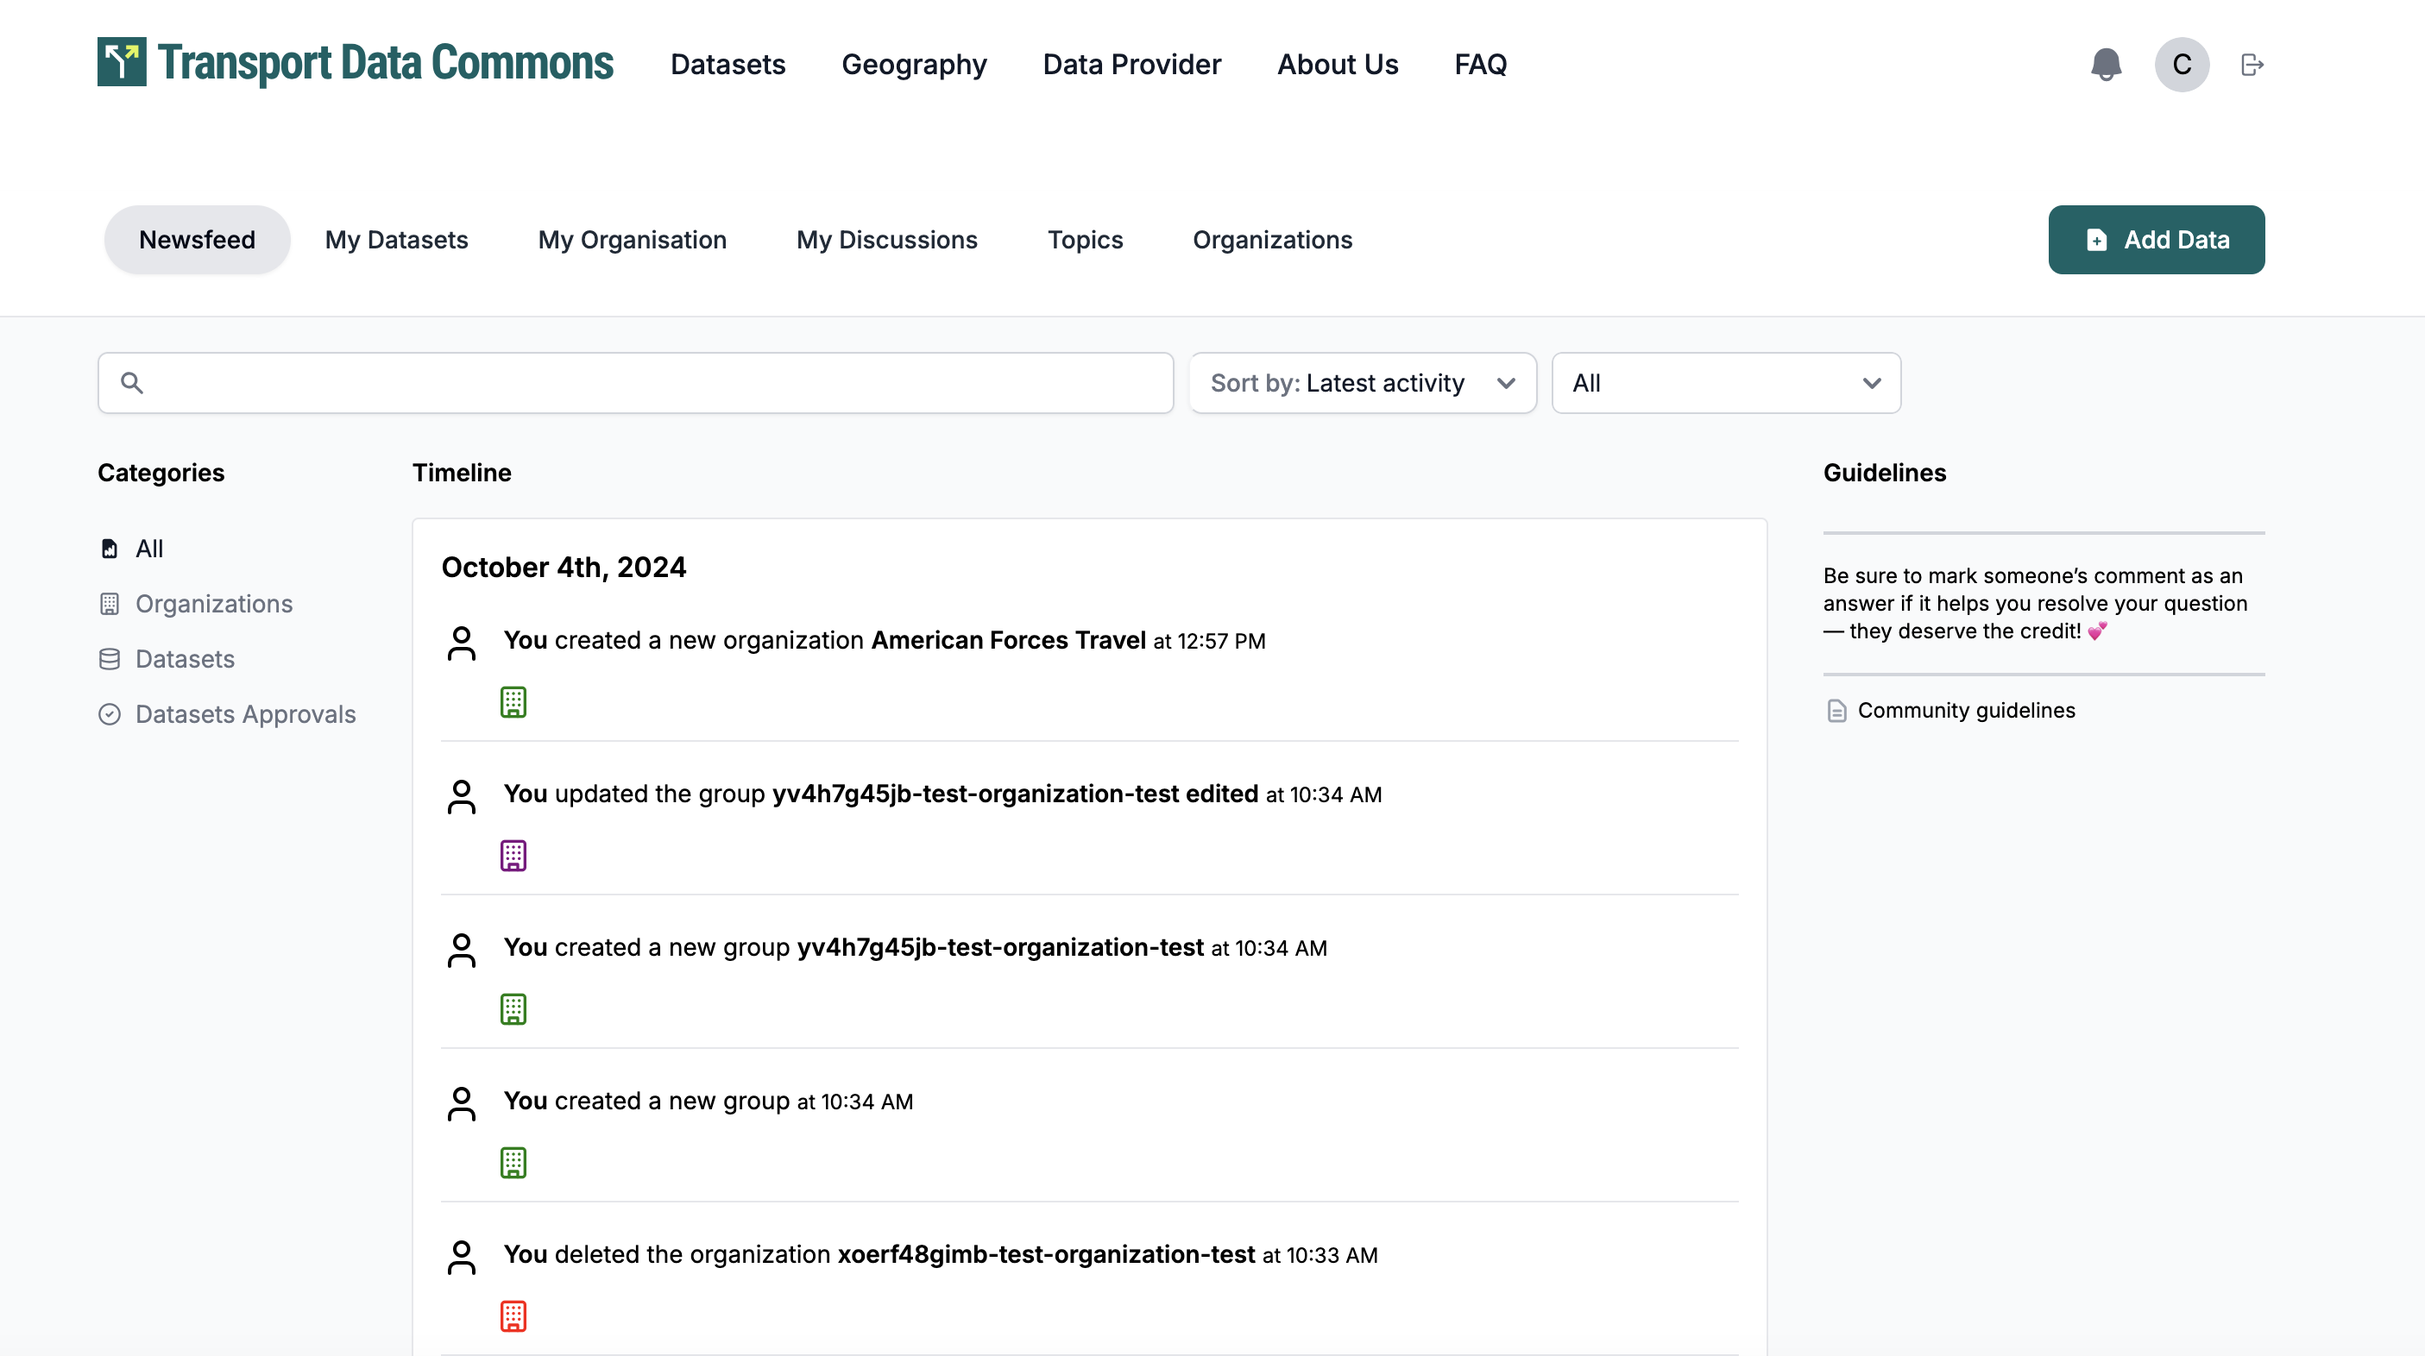
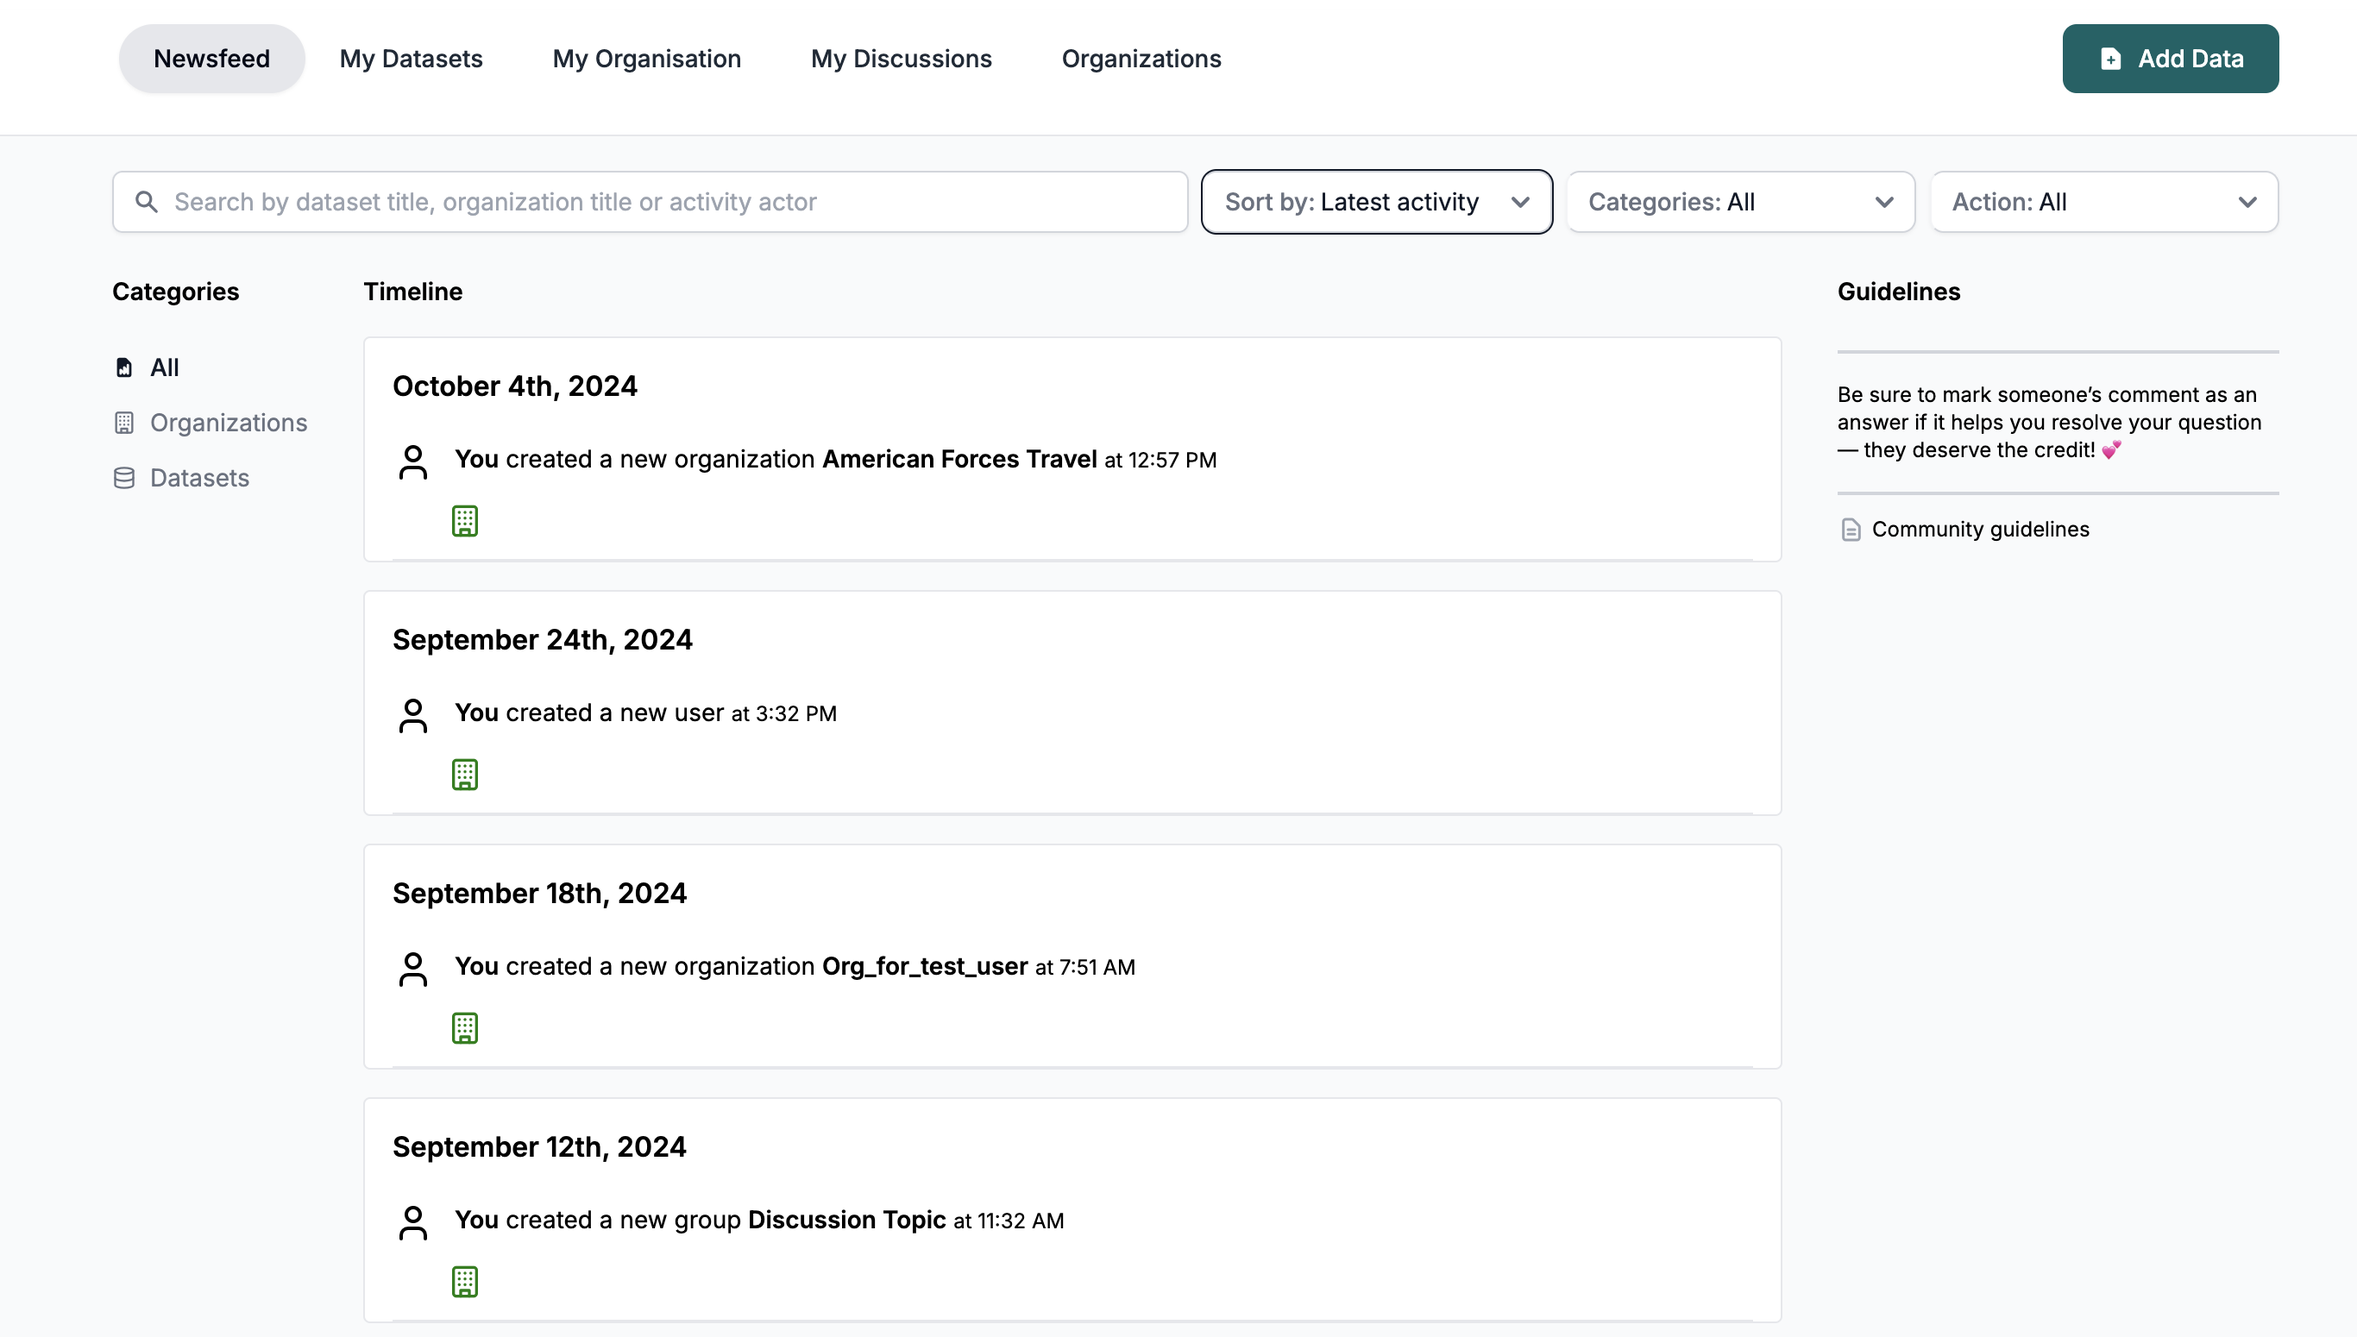
added action filter and updated docs

diff --git a/frontend/src/components/dashboard/NewsFeedTabContent.tsx b/frontend/src/components/dashboard/NewsFeedTabContent.tsx
@@ -1,5 +1,5 @@
 import Guidelines from "@components/_shared/Guidelines";
-import SimpleSearchInput from "@components/ui/simple-search-input";
+import NewsFeedSearchFilters from "@components/search/NewsfeedSearchFilters";
 import { SelectableItemsList } from "@components/ui/selectable-items-list";
 import { api } from "@utils/api";
 import { useState, useMemo, useEffect } from "react";
@@ -12,14 +12,15 @@ import {
   PaginationPrevious,
 } from "@components/ui/pagination";
 import MiniSearch from "minisearch";
-import { Building, Database, CircleCheck } from "lucide-react";
+import { Building, Database } from "lucide-react";
 import { DocumentReportIcon } from "@lib/icons";
 import DashboardNewsFeedCard from "./DashboardNewsFeedCard";
 import { format } from "date-fns";
 import { DashboardNewsfeedCardProps } from "./DashboardNewsFeedCard";
+import { Activity } from "@portaljs/ckan";
 
-const groupByDate = (activities: any) => {
-  return activities.reduce((groups: any, activity: any) => {
+const groupByDate = (activities: Activity[]) => {
+  return activities.reduce((groups: any, activity: Activity) => {
     if (activity?.timestamp) {
       const formattedDate = format(
         new Date(activity?.timestamp),
@@ -42,40 +43,28 @@ export interface NewsFeedCardProps {
   activity_type: string;
 }
 export default () => {
-  const filterOptions = [
+  const categoryFilterOptions = [
     "All",
     "Organizations",
     "Datasets",
-    /*"Datasets Approvals"*/,
+    /*"Datasets Approvals"*/
   ];
+  const actionsFilterOptions = ["All", "created", "deleted", "updated"];
   const [searchText, setSearchText] = useState("");
-  const [filter, setFilter] = useState("All");
+  const [categoryFilter, setCategoryFilter] = useState("All");
+  const [actionsFilter, setActionsFilter] = useState("All");
   const [sortOrder, setSortOrder] = useState("latest");
   const [currentPage, setCurrentPage] = useState(1);
   const itemsPerPage = 10;
 
   useEffect(() => {
     setCurrentPage(1);
-  }, [filter, searchText]);
+  }, [categoryFilter, actionsFilter, searchText]);
 
   const { data: activities, isLoading } =
     api.user.listDashboardActivities.useQuery();
 
   const preprocessedActivities = activities?.map((activity: any) => {
-    const activitySegments = activity.activity_type?.split(" ");
-    const activityType = activitySegments ? activitySegments[0] : "changed";
-    const activityTarget = activitySegments
-      ? activitySegments[1] === "package"
-        ? "dataset"
-        : activitySegments[1]
-      : "entity";
-
-    // Add synonyms for activity type and target
-    const mappedActivityType =
-      activityType === "changed" ? "updated" : activityType;
-    const mappedActivityTarget =
-      activityTarget === "dataset" ? "package" : activityTarget;
-
     return {
       ...activity,
       "data.group.title": activity.data?.group?.title || "",
@@ -83,14 +72,12 @@ export default () => {
       "data.package.name": activity.data?.package?.name || "",
       "data.package.title": activity.data?.package?.title || "",
       "data.actor": activity.data?.actor || "",
-      activity_type_synonym: `${activityType} ${activityTarget} ${mappedActivityType} ${mappedActivityTarget}`,
     };
   });
 
   const miniSearch = useMemo(() => {
     const search = new MiniSearch({
       fields: [
-        "activity_type_synonym",
         "data.group.title",
         "data.group.name",
         "data.package.name",
@@ -104,15 +91,30 @@ export default () => {
   }, [preprocessedActivities]);
 
   const searchResults = useMemo(() => {
-    const filteredActivites = activities?.filter((item) =>
-      filter === "Organizations"
-        ? item.activity_type?.includes("organization")
-        : filter === "Datasets" || filter === "Datasets Approvals"
-        ? item.activity_type?.includes("package")
-        : true
-    );
+    const filteredActivites =
+      categoryFilter === "All"
+        ? activities
+        : activities?.filter((item) =>
+            categoryFilter === "Organizations"
+              ? item.activity_type?.includes("organization")
+              : categoryFilter === "Datasets"
+              ? item.activity_type?.includes("package")
+              : true
+          );
+    const actionFilteredActivities =
+      actionsFilter === "All"
+        ? filteredActivites
+        : filteredActivites?.filter((item) =>
+            actionsFilter === "deleted"
+              ? item.activity_type?.includes("deleted")
+              : actionsFilter === "updated"
+              ? item.activity_type?.includes("changed")
+              : actionsFilter === "created"
+              ? item.activity_type?.includes("new")
+              : true
+          );
     if (!searchText) {
-      return filteredActivites;
+      return actionFilteredActivities;
     }
 
     return miniSearch.search(searchText, { prefix: true }).map((result) => {
@@ -121,7 +123,7 @@ export default () => {
       );
       return searchedActivities as NewsFeedCardProps;
     });
-  }, [searchText, activities, miniSearch, filter]);
+  }, [searchText, activities, miniSearch, categoryFilter, actionsFilter]);
 
   const sortedResults = useMemo(() => {
     if (sortOrder === "latest") {
@@ -155,54 +157,17 @@ export default () => {
 
   return (
     <div>
-      <div className="grid grid-cols-12 gap-2 xl:max-h-[36px] ">
-        <div className="col-span-12 xl:col-span-6">
-          <SimpleSearchInput onTextInput={(x) => setSearchText(x)} />
-        </div>
-        <div className="col-span-12 xl:col-span-2">
-          <div
-            className="flex  
-            h-[36px]
-            items-center
-            rounded-lg
-            rounded-e-lg
-            border
-            border-s
-            border-gray-300 border-l-gray-300
-            border-s-gray-100 bg-white
-          text-black shadow-sm
-           focus-within:ring-[1px] focus-within:ring-[#111928]"
-          >
-            <span className="z-10 inline-flex flex-shrink-0 items-end rounded-xl  pl-3 text-center text-sm font-medium text-[#6B7280] dark:bg-gray-700 dark:text-white ">
-              Sort by:
-            </span>
-            <select
-              id="states"
-              className="remove-input-ring block w-full rounded-lg rounded-e-lg border-0 bg-white p-0 pl-[3px]
-            text-sm text-gray-900 ring-0 dark:bg-gray-700 dark:text-white dark:placeholder-gray-400 "
-              onChange={(e) => setSortOrder(e.target.value)}
-            >
-              <option value="latest" selected={sortOrder === "latest"}>
-                Latest activity
-              </option>
-              <option value="oldest" selected={sortOrder === "oldest"}>
-                Oldest activity
-              </option>
-            </select>
-          </div>
-        </div>
-        <div className="col-span-12 xl:col-span-2">
-          <select
-            id="filter"
-            name="filter"
-            className="block w-full rounded-md border-0 py-2 pl-3 pr-10 text-sm text-gray-900 ring-1 ring-inset ring-gray-300 placeholder:text-gray-400 focus:ring-1 focus:ring-inset focus:ring-[#111928]"
-            onChange={(e) => setFilter(e.target.value)}
-          >
-            {filterOptions &&
-              filterOptions.map((item) => <option value={item}>{item}</option>)}
-          </select>
-        </div>
-      </div>
+      <NewsFeedSearchFilters
+        setSearchText={setSearchText}
+        sortOrder={sortOrder}
+        setSortOrder={setSortOrder}
+        categoryFilter={categoryFilter}
+        setCategoryFilter={setCategoryFilter}
+        categoryFilterOptions={categoryFilterOptions}
+        actionsFilter={actionsFilter}
+        setActionsFilter={setActionsFilter}
+        actionsFilterOptions={actionsFilterOptions}
+      />
       <div className="mt-6 flex flex-col justify-between gap-4 sm:flex-row sm:gap-8">
         <div className="space-y-6">
           <SelectableItemsList
@@ -228,8 +193,8 @@ export default () => {
               //   value: "Datasets Approvals",
               // },
             ]}
-            onSelectedItem={(option) => setFilter(option)}
-            selected={filter}
+            onSelectedItem={(option) => setCategoryFilter(option)}
+            selected={categoryFilter}
             title="Categories"
           />
           <div className="lg:hidden">

diff --git a/frontend/src/components/search/NewsfeedSearchFilters.tsx b/frontend/src/components/search/NewsfeedSearchFilters.tsx
@@ -1,0 +1,131 @@
+import SimpleSearchInput from "@components/ui/simple-search-input";
+
+export default function NewsFeedSearchFilters({
+  setSearchText,
+  sortOrder,
+  setSortOrder,
+  categoryFilter,
+  setCategoryFilter,
+  categoryFilterOptions,
+  actionsFilter,
+  setActionsFilter,
+  actionsFilterOptions,
+}: {
+  setSearchText: React.Dispatch<React.SetStateAction<string>>;
+  sortOrder: string;
+  setSortOrder: React.Dispatch<React.SetStateAction<string>>;
+  categoryFilter: string;
+  setCategoryFilter: React.Dispatch<React.SetStateAction<string>>;
+  categoryFilterOptions: string[];
+  actionsFilter: string;
+  setActionsFilter: React.Dispatch<React.SetStateAction<string>>;
+  actionsFilterOptions: string[];
+}) {
+  return (
+    <div className="grid grid-cols-12 gap-2 xl:max-h-[36px] ">
+      <div className="col-span-12 xl:col-span-6">
+        <SimpleSearchInput
+          placeholder="Search by dataset title, organization title or activity actor"
+          onTextInput={(x) => setSearchText(x)}
+        />
+      </div>
+      <div className="col-span-12 xl:col-span-2">
+        <div
+          className="flex  
+            h-[36px]
+            items-center
+            rounded-lg
+            rounded-e-lg
+            border
+            border-s
+            border-gray-300 border-l-gray-300
+            border-s-gray-100 bg-white
+          text-black shadow-sm
+           focus-within:ring-[1px] focus-within:ring-[#111928]"
+        >
+          <span className="z-10 inline-flex flex-shrink-0 items-end rounded-xl  pl-3 text-center text-sm font-medium text-[#6B7280] dark:bg-gray-700 dark:text-white ">
+            Sort by:
+          </span>
+          <select
+            id="states"
+            className="remove-input-ring block w-full rounded-lg rounded-e-lg border-0 bg-white p-0 pl-[3px]
+            text-sm text-gray-900 ring-0 dark:bg-gray-700 dark:text-white dark:placeholder-gray-400 "
+            onChange={(e) => setSortOrder(e.target.value)}
+          >
+            <option value="latest" selected={sortOrder === "latest"}>
+              Latest activity
+            </option>
+            <option value="oldest" selected={sortOrder === "oldest"}>
+              Oldest activity
+            </option>
+          </select>
+        </div>
+      </div>
+      <div className="col-span-12 xl:col-span-2">
+        <div
+          className="flex  
+            h-[36px]
+            items-center
+            rounded-lg
+            rounded-e-lg
+            border
+            border-s
+            border-gray-300 border-l-gray-300
+            border-s-gray-100 bg-white
+          text-black shadow-sm
+           focus-within:ring-[1px] focus-within:ring-[#111928]"
+        >
+          <span className="z-10 inline-flex flex-shrink-0 items-end rounded-xl  pl-3 text-center text-sm font-medium text-[#6B7280] dark:bg-gray-700 dark:text-white ">
+            Categories:
+          </span>
+          <select
+            id="filter"
+            name="filter"
+            className="remove-input-ring block w-full rounded-lg rounded-e-lg border-0 bg-white p-0 pl-[3px]
+            text-sm text-gray-900 ring-0 dark:bg-gray-700 dark:text-white dark:placeholder-gray-400 "
+            onChange={(e) => setCategoryFilter(e.target.value)}
+            value={categoryFilter}
+          >
+            {categoryFilterOptions &&
+              categoryFilterOptions.map((item) => (
+                <option value={item}>{item}</option>
+              ))}
+          </select>
+        </div>
+      </div>
+
+      <div className="col-span-12 xl:col-span-2">
+        <div
+          className="flex  
+            h-[36px]
+            items-center
+            rounded-lg
+            rounded-e-lg
+            border
+            border-s
+            border-gray-300 border-l-gray-300
+            border-s-gray-100 bg-white
+          text-black shadow-sm
+           focus-within:ring-[1px] focus-within:ring-[#111928]"
+        >
+          <span className="z-10 inline-flex flex-shrink-0 items-end rounded-xl  pl-3 text-center text-sm font-medium text-[#6B7280] dark:bg-gray-700 dark:text-white ">
+            Action:
+          </span>
+          <select
+            id="filter"
+            name="filter"
+            className="remove-input-ring block w-full rounded-lg rounded-e-lg border-0 bg-white p-0 pl-[3px]
+            text-sm text-gray-900 ring-0 dark:bg-gray-700 dark:text-white dark:placeholder-gray-400 "
+            onChange={(e) => setActionsFilter(e.target.value)}
+            value={actionsFilter}
+          >
+            {actionsFilterOptions &&
+              actionsFilterOptions.map((item) => (
+                <option value={item}>{item}</option>
+              ))}
+          </select>
+        </div>
+      </div>
+    </div>
+  );
+}

diff --git a/docs/newsfeed/README.md b/docs/newsfeed/README.md
@@ -1,24 +1,44 @@
 # Newsfeed Page
 
-The newsfeed page shows the activity regarding organizations that a user is a member of, or follower and also the datasets that belong to these organizations
+The newsfeed page shows the activities regarding organizations that a user is a member of, or follower and also the datasets that belong to these organizations
 
 ![NewsFeed Page](page.png)
 
-User can search by activity type/name, Dataset name and title, Organization name and title, and actor.
+## Searching
+
+User can search by dataset name and title, organization name and title, or actor.
 
 ![Search](search.png)
 
-User can filter activities based on four categories:
+## Filtering
+
+following two filters types are available to the user:
+
+### Filter by category
+
+User can filter activities based on three categories:
 
 - All
 - Organizations
 - Datasets
-- Dataset Approvals
 
-`Note:` For now Datasets and Dataset Approvals are doing the exact same thing (filtering on Datasets) because the Dataset Approval flow is not implemented yet. //TODO remove this in future.
+`Note:` Dataset Approvals category will be included in the future.
 
-![Filter](filter.png)
+![Filter By category](filter_category.png)
 
-User can sort by latest and oldest activities.
+### Filter by action
+
+User can filter activities based on four actions:
+
+- All
+- created
+- deleted
+- updated
+
+![Filter By Action](filter_action.png)
+
+## Sorting
+
+User can sort by latest or oldest activities.
 
 ![Sort](sort.png)
